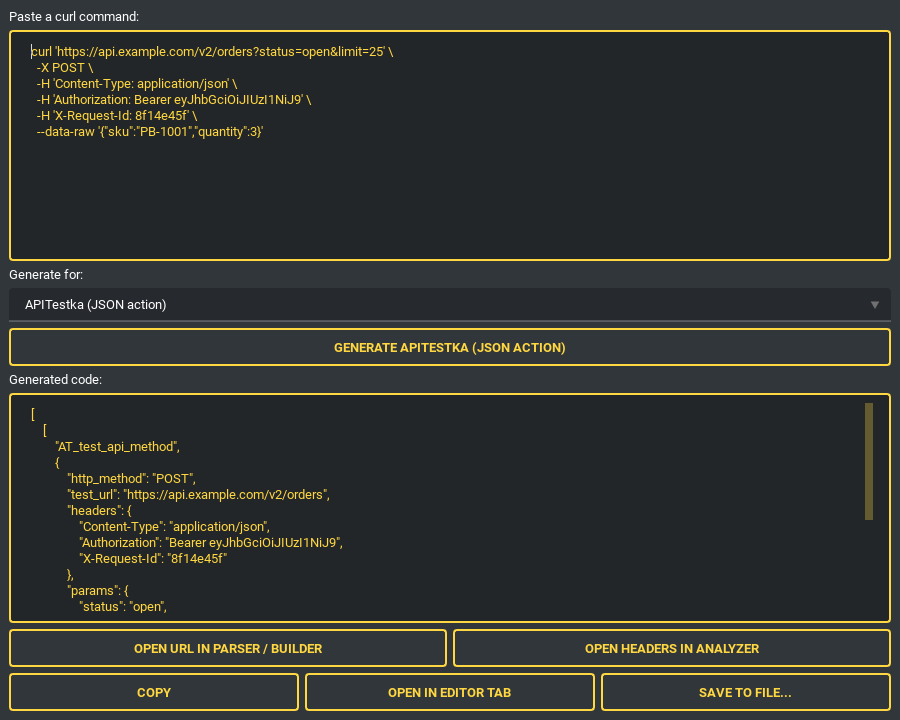
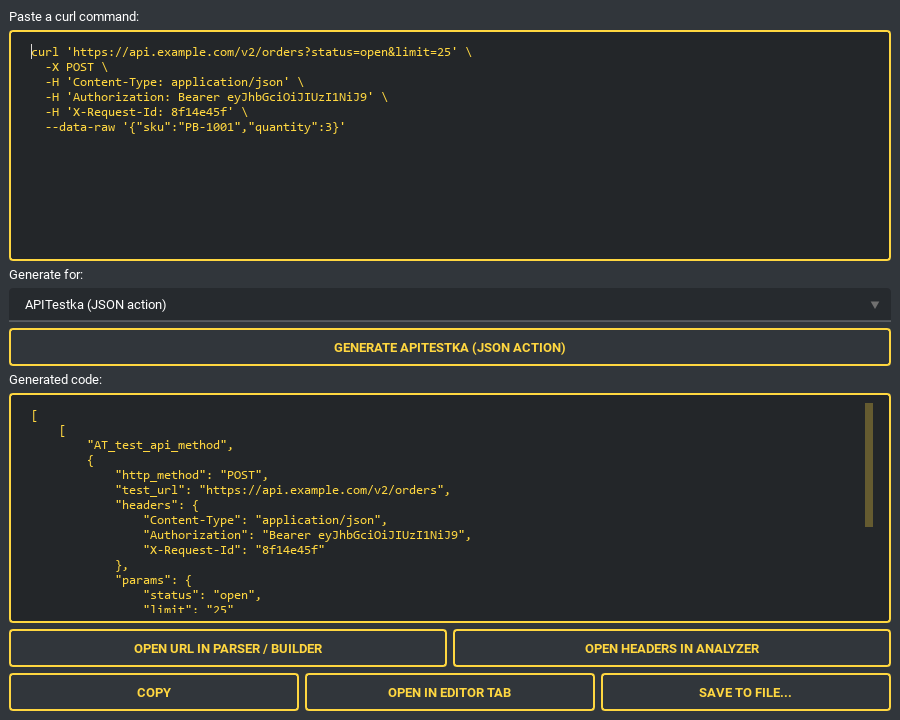
Show code in the tool tabs in the fixed-pitch font

Changed region(s): [[0.0622, 0.6111, 0.5289, 0.8556], [0.0311, 0.0611, 0.4978, 0.2139]]

diff --git a/test/test_utils/test_code_boxes_fixed_pitch.py b/test/test_utils/test_code_boxes_fixed_pitch.py
@@ -1,0 +1,70 @@
+"""The text boxes that hold code show it in the fixed-pitch font.
+
+In the interface's proportional font, indentation and the columns of a diff did
+not line up.
+"""
+from __future__ import annotations
+
+import os
+
+os.environ.setdefault("QT_QPA_PLATFORM", "offscreen")
+
+import pytest
+from PySide6.QtWidgets import QApplication
+
+from pybreeze.extend_multi_language.update_language_dict import update_language_dict
+from pybreeze.pybreeze_ui.fixed_pitch import fixed_pitch_font
+
+
+@pytest.fixture(scope="module")
+def app():
+    instance = QApplication.instance() or QApplication([])
+    update_language_dict()
+    return instance
+
+
+def _diff():
+    from pybreeze.pybreeze_ui.tools_gui.diff_gui import DiffGUI
+    return DiffGUI(None)
+
+
+def _curl():
+    from pybreeze.pybreeze_ui.tools_gui.curl_import_gui import CurlImportGUI
+    return CurlImportGUI(None)
+
+
+def _har():
+    from pybreeze.pybreeze_ui.tools_gui.har_import_gui import HarImportGUI
+    return HarImportGUI(None)
+
+
+def _json_format():
+    from pybreeze.pybreeze_ui.tools_gui.json_format_gui import JsonFormatGUI
+    return JsonFormatGUI(None)
+
+
+def _ai_code_review():
+    from pybreeze.pybreeze_ui.connect_gui.url.ai_code_review_gui import AICodeReviewClient
+    return AICodeReviewClient()
+
+
+CODE_BOXES = [
+    (_diff, "left_edit"), (_diff, "right_edit"), (_diff, "output_edit"),
+    (_curl, "input_edit"), (_curl, "output_edit"),
+    (_har, "output_edit"),
+    (_json_format, "input_edit"), (_json_format, "output_edit"),
+    (_ai_code_review, "code_input"),
+]
+
+
+@pytest.mark.parametrize(("build", "box"), CODE_BOXES,
+                         ids=[f"{build.__name__[1:]}.{box}" for build, box in CODE_BOXES])
+def test_the_box_uses_the_fixed_pitch_font(app, build, box):
+    widget = build()
+    view = getattr(widget, box)
+    family = fixed_pitch_font().family()
+
+    assert view.font().family() == family
+    # In the view's own sheet too: the theme's sheet overrides setFont
+    assert family in view.styleSheet()
+    widget.close()

diff --git a/pybreeze/pybreeze_ui/tools_gui/diff_gui.py b/pybreeze/pybreeze_ui/tools_gui/diff_gui.py
@@ -12,6 +12,7 @@ from je_editor.pyside_ui.main_ui.save_settings.user_color_setting_file import ac
 from pybreeze.pybreeze_ui.exact_text import exact_text
 from pybreeze.pybreeze_ui.tools_gui.output_actions import OutputActions
 from pybreeze.pybreeze_ui.thread_keeper import let_run_out
+from pybreeze.pybreeze_ui.fixed_pitch import use_fixed_pitch_font
 from pybreeze.utils.diff_tools.text_diff import Comparison, DiffSummary, compare_texts
 
 # A unified diff line's first characters -> JEditor theme colour (a dark and a
@@ -87,9 +88,11 @@ class DiffGUI(QWidget):
 
         self.left_label = QLabel(word.get("diff_left_label"))
         self.left_edit = QTextEdit()
+        use_fixed_pitch_font(self.left_edit)
         self.left_edit.setAcceptRichText(False)
         self.right_label = QLabel(word.get("diff_right_label"))
         self.right_edit = QTextEdit()
+        use_fixed_pitch_font(self.right_edit)
         self.right_edit.setAcceptRichText(False)
 
         inputs = QHBoxLayout()
@@ -107,6 +110,7 @@ class DiffGUI(QWidget):
 
         self.summary_label = QLabel("")
         self.output_edit = QTextEdit()
+        use_fixed_pitch_font(self.output_edit)
         self.output_edit.setReadOnly(True)
         self._highlighter = UnifiedDiffHighlighter(self.output_edit.document())
 

diff --git a/pybreeze/pybreeze_ui/tools_gui/curl_import_gui.py b/pybreeze/pybreeze_ui/tools_gui/curl_import_gui.py
@@ -25,6 +25,7 @@ from pybreeze.utils.exception.exceptions import CurlParseException
 from pybreeze.utils.header_tools.header_merge import stored_header_name
 from pybreeze.utils.logging.logger import pybreeze_logger
 from pybreeze.pybreeze_ui.error_text import error_text
+from pybreeze.pybreeze_ui.fixed_pitch import use_fixed_pitch_font
 
 # The single target that generates JSON rather than Python
 _JSON_TARGET = "apitestka_action"
@@ -47,6 +48,7 @@ class CurlImportGUI(QWidget):
 
         self.input_label = QLabel(word.get("curl_import_input_label"))
         self.input_edit = QTextEdit()
+        use_fixed_pitch_font(self.input_edit)
         self.input_edit.setPlaceholderText(word.get("curl_import_input_placeholder"))
         self.input_edit.setAcceptRichText(False)
 
@@ -63,6 +65,7 @@ class CurlImportGUI(QWidget):
 
         self.output_label = QLabel(word.get("curl_import_output_label"))
         self.output_edit = QTextEdit()
+        use_fixed_pitch_font(self.output_edit)
         self.output_edit.setReadOnly(True)
 
         # Cross-tool actions: hand the parsed parts to the tool that specialises

diff --git a/pybreeze/pybreeze_ui/tools_gui/json_format_gui.py b/pybreeze/pybreeze_ui/tools_gui/json_format_gui.py
@@ -12,6 +12,7 @@ from pybreeze.utils.exception.exceptions import ITEJsonException
 from pybreeze.utils.json_format.json_process import minify_json, reformat_json
 from pybreeze.utils.logging.logger import pybreeze_logger
 from pybreeze.pybreeze_ui.error_text import error_text
+from pybreeze.pybreeze_ui.fixed_pitch import use_fixed_pitch_font
 
 
 class JsonFormatGUI(QWidget):
@@ -29,6 +30,7 @@ class JsonFormatGUI(QWidget):
 
         self.input_label = QLabel(word.get("json_format_input_label"))
         self.input_edit = QTextEdit()
+        use_fixed_pitch_font(self.input_edit)
         self.input_edit.setPlaceholderText(word.get("json_format_input_placeholder"))
         self.input_edit.setAcceptRichText(False)
 
@@ -43,6 +45,7 @@ class JsonFormatGUI(QWidget):
 
         self.output_label = QLabel(word.get("json_format_output_label"))
         self.output_edit = QTextEdit()
+        use_fixed_pitch_font(self.output_edit)
         self.output_edit.setReadOnly(True)
 
         self.actions = OutputActions(

diff --git a/pybreeze/pybreeze_ui/connect_gui/url/ai_code_review_gui.py b/pybreeze/pybreeze_ui/connect_gui/url/ai_code_review_gui.py
@@ -26,6 +26,7 @@ from pybreeze.utils.network.http_client import (
 from pybreeze.utils.network.public_http import overall_deadline, public_session
 from pybreeze.utils.network.url_validation import UnsafeURLError, validate_url
 from pybreeze.pybreeze_ui.exact_text import exact_text
+from pybreeze.pybreeze_ui.fixed_pitch import use_fixed_pitch_font
 
 
 # What the "seen this URL before" file keeps. An API URL can carry a token in
@@ -200,6 +201,7 @@ class AICodeReviewClient(QWidget):
         left_layout.addWidget(QLabel(
             self.word_dict.get("ai_code_review_gui_label_code_to_send")))
         self.code_input = QTextEdit()
+        use_fixed_pitch_font(self.code_input)
         self.code_input.setSizePolicy(QSizePolicy.Policy.Expanding, QSizePolicy.Policy.Expanding)
         left_layout.addWidget(self.code_input)
 

diff --git a/pybreeze/pybreeze_ui/tools_gui/har_import_gui.py b/pybreeze/pybreeze_ui/tools_gui/har_import_gui.py
@@ -25,6 +25,7 @@ from pybreeze.utils.har_import.har_parser import HarEntry, api_entries, parse_ha
 from pybreeze.utils.file_process.read_capped import read_text_capped
 from pybreeze.utils.logging.logger import pybreeze_logger
 from pybreeze.pybreeze_ui.error_text import error_text
+from pybreeze.pybreeze_ui.fixed_pitch import use_fixed_pitch_font
 
 # The single target that generates JSON rather than Python
 _JSON_TARGET = "apitestka_action"
@@ -87,6 +88,7 @@ class HarImportGUI(QWidget):
 
         self.output_label = QLabel(word.get("curl_import_output_label"))
         self.output_edit = QTextEdit()
+        use_fixed_pitch_font(self.output_edit)
         self.output_edit.setReadOnly(True)
 
         self.actions = OutputActions(

diff --git a/docs/updates/2026-09-b.md b/docs/updates/2026-09-b.md
@@ -1024,3 +1024,13 @@ Continues [2026-09.md](2026-09.md), which passed the batch size limit. Index and
 - **Docs**: `images/run_output_window.png` redone the same way as in U-20260924-297 (a real run of the same demo script, 900 × 620), now in Consolas; `ssh_client.png` shows no terminal text and is unchanged; `architecture_explore.md` (run window, SSH terminal).
 - **Files**: `pybreeze/pybreeze_ui/fixed_pitch.py`, `test/test_utils/test_terminal_font.py`, `images/run_output_window.png`, `architecture_explore.md`
 - **Open items**: none.
+
+## U-20260924-314 · 2026-09-24 · Code in the tool tabs in the fixed-pitch font · #feature #tools #readme
+
+- **What**: the text boxes that hold code showed it in the interface's proportional font, so indentation and the columns of a unified diff did not line up: Text Diff's two inputs and its output, the cURL import's command and generated code, the HAR import's generated code, JSON Format's input and result, and the code to send in AI Code Review.
+- **Change**: each of those nine boxes calls `fixed_pitch.use_fixed_pitch_font()` as it is built (Consolas where installed, U-20260924-313). Boxes that hold prose or tables (HTTP status, header analysis, response analysis, hashes, timestamps) keep the interface font.
+- **Tests**: new `test_code_boxes_fixed_pitch.py` (9, one per box: the font and the view's own style sheet name the fixed-pitch family); all failed before the change. The cURL, diff, HAR and JSON format widget tests pass (92 with the new file).
+- **Result / numbers**: 2416 tests in 133 files (the count after U-20260924-313's two font tests, which that entry did not add to the map). `ruff check` clean.
+- **Docs**: redone under dark_amber at their sizes with the same content: `tool_curl_import.png`, `tool_curl_import_action.png`, `tool_har_import.png` (a HAR of the same four requests), `tool_diff.png`, `ai_code_review.png`, and the JSON Format panel of `tools_montage_a.png`; `architecture_explore.md` (test count).
+- **Files**: `pybreeze/pybreeze_ui/tools_gui/diff_gui.py`, `pybreeze/pybreeze_ui/tools_gui/curl_import_gui.py`, `pybreeze/pybreeze_ui/tools_gui/har_import_gui.py`, `pybreeze/pybreeze_ui/tools_gui/json_format_gui.py`, `pybreeze/pybreeze_ui/connect_gui/url/ai_code_review_gui.py`, `test/test_utils/test_code_boxes_fixed_pitch.py`, the six images, `architecture_explore.md`
+- **Open items**: none.

diff --git a/docs/updates/README.md b/docs/updates/README.md
@@ -58,6 +58,7 @@ In the same commit: delete the item from `progress.md`, add a `#done` entry here
 
 | ID | Date | Title | Tags | Batch |
 |---|---|---|---|---|
+| U-20260924-314 | 2026-09-24 | Code in the tool tabs in the fixed-pitch font | #feature #tools #readme | [2026-09-b](2026-09-b.md) |
 | U-20260924-313 | 2026-09-24 | Consolas before Courier New for terminal output | #fix #ui | [2026-09-b](2026-09-b.md) |
 | U-20260924-312 | 2026-09-24 | Move the fixed-pitch font helper out of terminal_view | #refactor #ui | [2026-09-b](2026-09-b.md) |
 | U-20260924-311 | 2026-09-24 | Remove the images nothing shows | #docs #cleanup | [2026-09-b](2026-09-b.md) |
@@ -395,4 +396,4 @@ In the same commit: delete the item from `progress.md`, add a `#done` entry here
 | File | Period | Entries |
 |---|---|---:|
 | [2026-09.md](2026-09.md) | 2026-09 | 218 |
-| [2026-09-b.md](2026-09-b.md) | 2026-09 | 111 |
+| [2026-09-b.md](2026-09-b.md) | 2026-09 | 112 |
